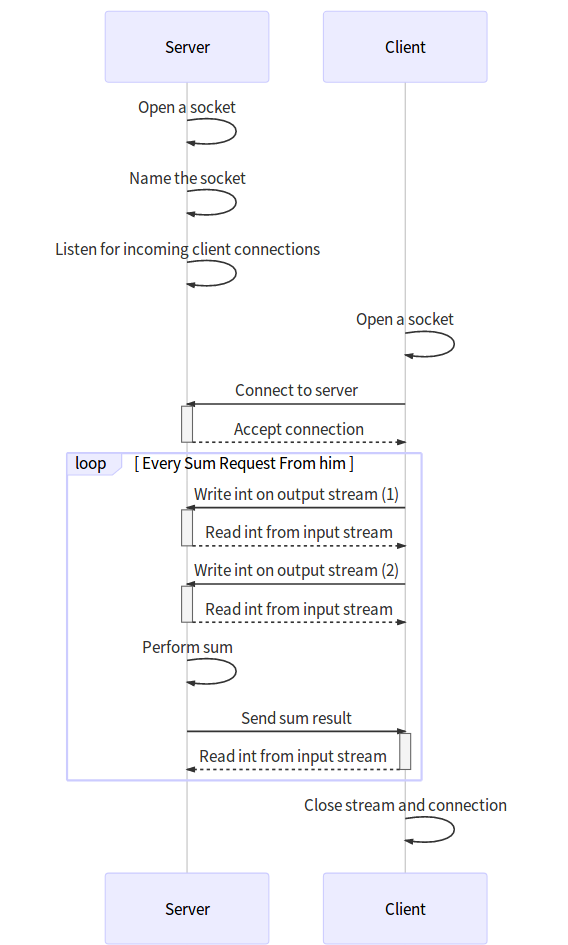
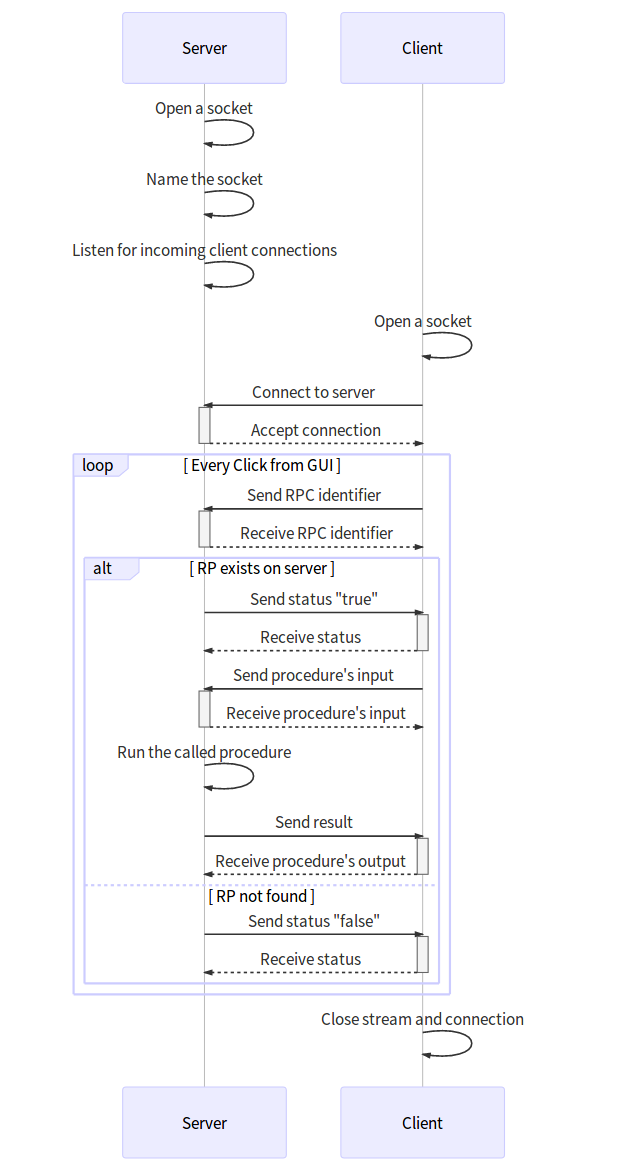
feature: versão com 2 RPCs

diff --git a/lab1/testes/exemplo_rpc_java/src/server/ConnectionProtocol.java b/lab1/testes/exemplo_rpc_java/src/server/ConnectionProtocol.java
@@ -4,11 +4,60 @@ import java.io.*;
 import java.net.*;
 import java.util.logging.*;
 
+@FunctionalInterface
+interface RunnableRemoteProcedure {
+  void run(DataInputStream in, DataOutputStream out) throws EOFException, IOException;
+}
+
+/**
+ *
+ */
 public class ConnectionProtocol {
 
   private Socket socket;
-  private DataInputStream in = null;
-  private DataOutputStream out = null;
+  DataInputStream in = null;
+  DataOutputStream out = null;
+
+  /**
+   * Realiza as ações para o
+   * procedimento remoto `Somar`.
+   * @throws EOFException - if this input stream reaches the end before reading four bytes.
+   * @throws IOException - the stream has been closed and the contained input stream does not support reading after close, or another I/O error occurs.
+   */
+  static void doSomar(DataInputStream in, DataOutputStream out) throws EOFException, IOException {
+    // [receive] ler os parâmetros de entrada para o procedimento `somar`
+    int arg1 = in.readInt();
+    int arg2 = in.readInt();
+    InfoLog.printToStdout("client called RPC somar(%d, %d)", arg1, arg2);
+
+    // realizar a operação do procedimento `somar`
+    int result = arg1 + arg2;
+
+    // [send] escrever o resultado do procedimento `somar`
+    out.writeInt(result);
+    InfoLog.printToStdout("sended int '%d' to client", result);
+  }
+
+  /**
+   * Realiza as ações para o
+   * procedimento remoto `Multiplicar`.
+   * @throws EOFException - if this input stream reaches the end before reading four bytes.
+   * @throws IOException - the stream has been closed and the contained input stream does not support reading after close, or another I/O error occurs.
+   */
+  static void doMultiplicar(DataInputStream in, DataOutputStream out) throws EOFException, IOException {
+    // [receive] ler os parâmetros de entrada para o procedimento `multiplicar`
+    int arg1 = in.readInt();
+    int arg2 = in.readInt();
+    InfoLog.printToStdout("client called RPC multiplicar(%d, %d)", arg1, arg2);
+
+    // realizar a operação do procedimento `multiplicar`
+    int result = arg1 * arg2;
+
+    // [send] escrever o resultado do procedimento `multiplicar`
+    out.writeInt(result);
+    InfoLog.printToStdout("sended int '%d' to client", result);
+  }
+
 
   /**
    * Inicializa uma conexão com um um socket
@@ -29,33 +78,26 @@ public class ConnectionProtocol {
   }
 
   /**
-   * Realiza a leitura de dois inteiros
-   * no fluxo de dados e soma eles.
-   * @return A operação de soma entre dois inteiros.
-   * @throws EOFException
-   * @throws IOException
+   * Tenta recuperar o identificador
+   * do procedimento remoto.
+   * @return O identificador encontrado.
+   * @throws EOFException - if this input stream reaches the end before reading four bytes.
+   * @throws IOException - the stream has been closed and the contained input stream does not support reading after close, or another I/O error occurs.
    */
-  private int doSomar() throws EOFException, IOException {
-    if (in == null) return 0;
-
-    int arg1 = in.readInt();
-    int arg2 = in.readInt();
-    InfoLog.printToStdout("client called soma(%d, %d)", arg1, arg2);
-    return arg1 + arg2;
+  short getRemoteProcedureIdentifier() throws EOFException, IOException {
+    return this.in.readShort();
   }
 
   /**
-   * Realiza a soma e envia para o <em>client</em>
-   * que iniciou a conexão.
-   * @throws EOFException
-   * @throws IOException
+   * Escreve a confirmação (ou não) se
+   * uma função remota foi encontrada no servidor.
    */
-  void sendSoma() throws EOFException, IOException {
-    if (out == null) return;
-
-    int result = doSomar();
-    out.writeInt(result);
-    InfoLog.printToStdout("sended int '%d' to client", result);
+  void sendRPCStatus(Boolean founded) {
+    try {
+      this.out.writeBoolean(founded);
+    } catch (IOException ex) {
+      InfoLog.printToStderr("[error:%s] to write boolean", this.getClass().getName());
+    }
   }
 
   void close() {

diff --git a/lab1/testes/exemplo_rpc_java/src/client/ClientSocketController.java b/lab1/testes/exemplo_rpc_java/src/client/ClientSocketController.java
@@ -16,6 +16,63 @@ public class ClientSocketController {
   DataInputStream in;
   DataOutputStream out;
 
+  /**
+   *
+   * @param num1 -
+   * @param num2 -
+   * @return
+   */
+  public int callRPCSomar(int num1, int num2) throws IOException {
+    this.out.writeShort(1);
+    // [receive] ler a confirmação do server sobre se o procedimento remoto foi encontrado
+    Boolean rpcFound = this.in.readBoolean();
+
+    if (rpcFound) {
+      // [send] escrever os parâmetros de entrada que o procedimento espera
+      this.out.writeInt(num1);
+      this.out.writeInt(num2);
+
+      // [receive] ler o resultado obtido da chamada do procedimento
+      int result = this.in.readInt(); // Bloqueia até receber a resposta do server
+      return result;
+    }
+
+    // TODO: tratar erro de `RP not found`
+    return 0;
+  }
+
+  /**
+   *
+   * @param num1 -
+   * @param num2 -
+   * @return
+   */
+  public int callRPCMultiplicar(int num1, int num2) throws IOException {
+    this.out.writeShort(2);
+    // [receive] ler a confirmação do server sobre se o procedimento remoto foi encontrado
+    Boolean rpcFound = this.in.readBoolean();
+
+    if (rpcFound) {
+      // [send] escrever os parâmetros de entrada que o procedimento espera
+      this.out.writeInt(num1);
+      this.out.writeInt(num2);
+
+      // [receive] ler o resultado obtido da chamada do procedimento
+      int result = this.in.readInt(); // Bloqueia até receber a resposta do server
+      return result;
+    }
+
+    // TODO: tratar erro de `RP not found`
+    return 0;
+  }
+
+
+  /**
+   *
+   * @param serverHost - the server host name, or null for the loopback address.
+   * @param serverPort - the port number which server host is listening.
+   * @throws IOExcepetion
+   */
   public ClientSocketController(String serverHost, int serverPort) throws IOException {
     try {
 
@@ -39,14 +96,11 @@ public class ClientSocketController {
     }
   }
 
-  public int callRPCSomar(int num1, int num2) throws IOException {
-    this.out.writeInt(num1);
-    this.out.writeInt(num2);
-
-    int soma = this.in.readInt(); // Bloqueia até receber a resposta do server
-    return soma;
-  }
-
+  /**
+   * Tenta fechar o socket criado
+   * assim como os fluxos de dados
+   * de entrada e saída.
+   */
   public void closeSocket() {
     try {
 

diff --git a/lab1/testes/exemplo_rpc_java/src/server/ServerSocketController.java b/lab1/testes/exemplo_rpc_java/src/server/ServerSocketController.java
@@ -2,13 +2,23 @@ package server;
 
 import java.io.*;
 import java.net.*;
+import java.util.Map;
+import java.util.function.Consumer;
+import java.util.HashMap;
 
+/**
+ *
+ */
 public class ServerSocketController {
 
   public static void main(String[] args) throws IOException {
     int ssPort = (args.length == 1)
                  ? Integer.parseInt(args[0])
                  : 4444;
+
+    Map<Short, RunnableRemoteProcedure> map = new HashMap<>();
+    map.put(new Short("1"), ConnectionProtocol::doSomar);
+    map.put(new Short("2"), ConnectionProtocol::doMultiplicar);
 
     // Conectar o processo a um socket
     ServerSocket ss = new ServerSocket(ssPort);
@@ -17,14 +27,27 @@ public class ServerSocketController {
     while (true) {
       Socket cs = ss.accept();
       InfoLog.printToStdout("connection establish with '%s'",
-                            cs.getRemoteSocketAddress());
+      cs.getRemoteSocketAddress());
 
       // Bloqueia até o client sair
       ConnectionProtocol cp = new ConnectionProtocol(cs);
+
       do {
+
+        short procedureId;
         try {
-          cp.sendSoma();
-        } catch (IOException ex) { break; }
+          procedureId = cp.getRemoteProcedureIdentifier();
+        } catch (IOException ex) { break; } // cliente fechou a conexão
+
+        RunnableRemoteProcedure remoteProcedure = map.get(procedureId);
+        if (remoteProcedure != null) {
+          cp.sendRPCStatus(true);
+          remoteProcedure.run(cp.in, cp.out);
+        } else {
+          cp.sendRPCStatus(false);
+          InfoLog.printToStderr("[error:%s] RP not found", "main");
+        }
+
       } while (true);
 
       cp.close();

diff --git a/lab1/testes/exemplo_rpc_java/README.md b/lab1/testes/exemplo_rpc_java/README.md
@@ -1,35 +1,37 @@
 ## vide
-Dois programas (_client_ e _server_) para demonstrar uma RPC que computa a soma de 2 números.
+Dois programas (_client_ e _server_) para demonstrar uma RPC que computa a soma ou multiplicação de 2 números.
 O programa servidor não atende a mais de 1 cliente pois quando a conexão é aceita pelo primeiro,
-seu processo fica esperando requisições (de acordo com a assinatura da função _somar_) dele.
-Assim, devido à fila de sockets em espera, os demais clientes que estabelecerem uma conexão, não poderão realizar a operação _somar_
-até que o anterior feche a conexão.
+seu processo fica esperando requisições dele.
+Assim, devido à fila de sockets em espera, os demais clientes que estabelecerem uma conexão, não poderão enviar suas informações no canal de comunicação (_stream_) aberto até que o anterior feche a conexão.
 
-- a conexão é estabelecida através de **sockets stream** (via TCP) a fim de manter um canal de comunicação entre os dois hosts.
+- a conexão é estabelecida através de **sockets stream** (sob o modelo TCP) a fim de manter um canal de comunicação confiável e segura entre os dois _hosts_ remotos;
+- os procedimentos remotos são identificados por um número do tipo `short` (16 bits, i.e., de **-32.768** a **32.767**).
 
 [![Comunicação R-R](./docs/diagrams/sequence-diagram1.png)](./docs/diagrams/sequence-diagram1.mmd)
 > diagram build with [MermaidJS](https://mermaidjs.github.io)
 
 ```
 .
-├── client
-│   ├── ClientSocketController.java
-│   └── TelaPrincipal.java           [main]
-└── server
-    ├── ConnectionProtocol.java
-    ├── InfoLog.java
-    └── ServerSocketController.java  [main]
-
-2 directories, 5 files
+├── makefile
+└── src
+    ├── client
+    │   ├── ClientSocketController.java   [main]
+    │   └── TelaPrincipal.java
+    └── server
+        ├── ConnectionProtocol.java
+        ├── InfoLog.java
+        └── ServerSocketController.java   [main]
 ```
 
 ## build & run
 
 ```bash
-mkdir build && javac -d build src/client/*.java src/server/*.java
-cd build
+make && cd build
 java server.ServerSocketController &
-java client.TelaPrincipal &
+java client.TelaPrincipal
 
-netstat -lnt6 ## verificar estado da conexão
+netstat -lnt6 ## verificar estado da conexão tcp6
+
+## apagar objetos
+cd .. && make clean
 ```
